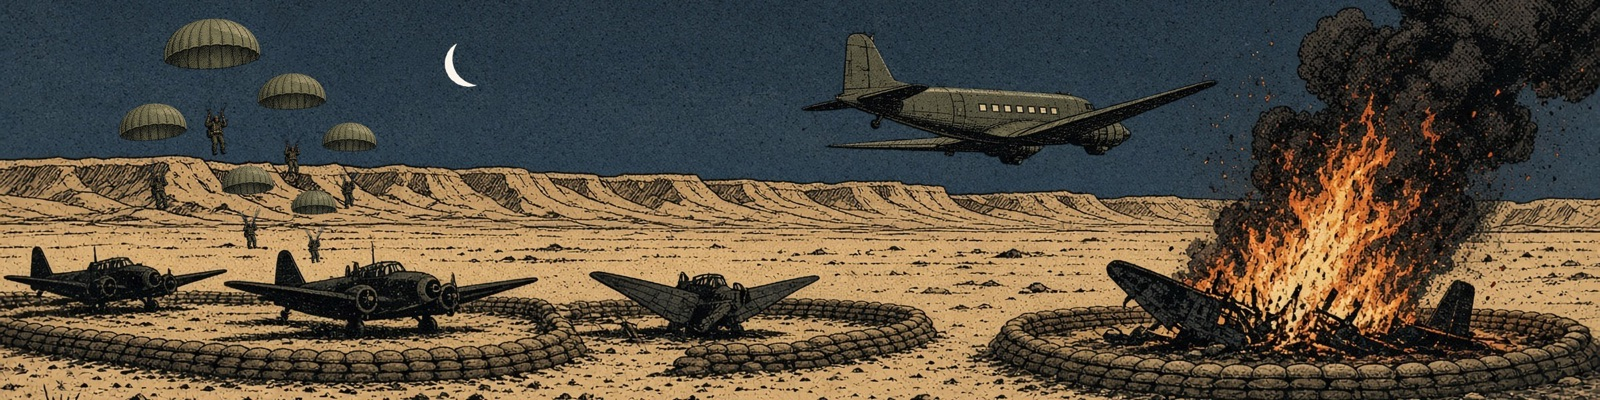
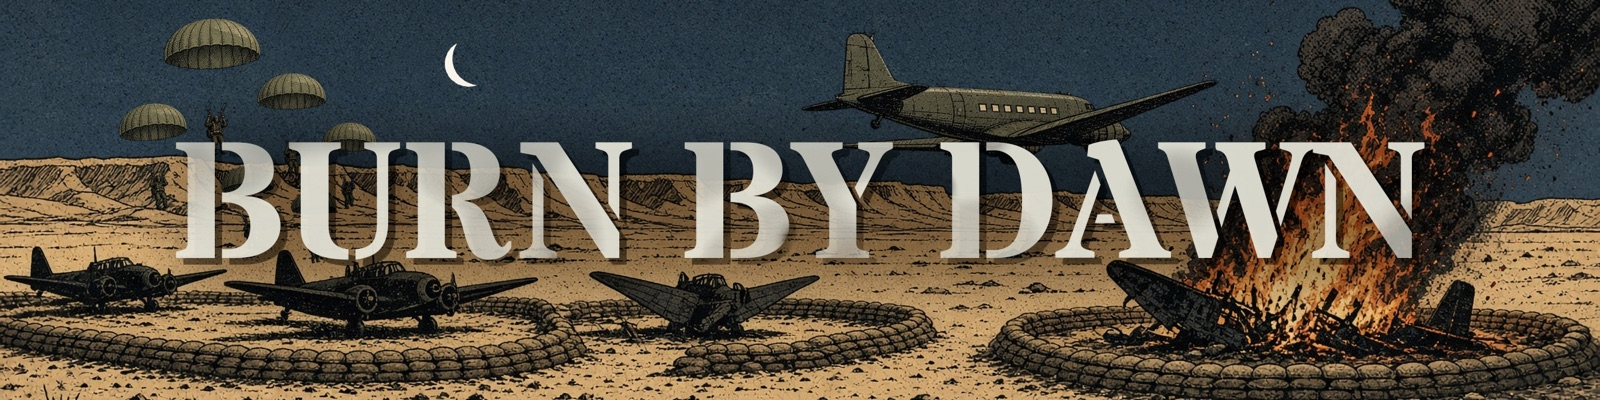
the tin of time pencils about a fifth bigger; the operator's revised title cards in (France's lighter, the airfield's with BURN BY DAWN painted in, so code no longer sets it)

Changed region(s): [[0.0938, 0.33, 0.9062, 0.75]]

diff --git a/index.html b/index.html
@@ -230,14 +230,14 @@
     #timer-tin {
       position: absolute;
       z-index: 6;
-      width: 318px;
-      padding: 6px 8px 8px;
+      width: 388px;
+      padding: 7px 10px 10px;
       background: var(--green);
       background-image: radial-gradient(circle, rgba(26, 26, 24, 0.22) 0.8px, transparent 1.2px);
       background-size: 4px 4px;
       border: 3px solid var(--ink);
-      border-radius: 9px;
-      box-shadow: 5px 5px 0 var(--ink), 0 10px 30px rgba(0, 0, 0, 0.35);
+      border-radius: 11px;
+      box-shadow: 6px 6px 0 var(--ink), 0 12px 36px rgba(0, 0, 0, 0.35);
       cursor: default;
     }
     #timer-tin[hidden] { display: none; }
@@ -245,33 +245,33 @@
       display: flex;
       justify-content: space-between;
       align-items: baseline;
-      padding: 0 3px 5px;
+      padding: 0 4px 6px;
       color: var(--paper);
       font-family: var(--slab);
       letter-spacing: 2px;
     }
-    #timer-tin .tin-make { font-size: 10px; letter-spacing: 1px; opacity: 0.85; white-space: nowrap; }
-    #timer-tin .tin-name { font-size: 16px; white-space: nowrap; }
+    #timer-tin .tin-make { font-size: 12px; letter-spacing: 1px; opacity: 0.85; white-space: nowrap; }
+    #timer-tin .tin-name { font-size: 20px; white-space: nowrap; }
     #timer-tin .tin-card {
-      padding: 5px 7px 6px;
+      padding: 6px 9px 7px;
       background-color: var(--paper);
       background-image: var(--paper-fibre);
       background-size: var(--paper-fibre-size);
       border: 2px solid var(--ink);
       border-radius: 3px;
     }
-    #timer-tin .tin-head { display: flex; justify-content: space-between; align-items: baseline; gap: 8px; font-size: 13px; border-bottom: 2px solid var(--ink); padding-bottom: 4px; margin-bottom: 4px; }
-    #timer-tin .tin-head b { font-family: var(--slab); font-size: 16px; letter-spacing: 1px; color: var(--red); }
-    #timer-tin .tin-head span { font-size: 12px; text-align: right; }
+    #timer-tin .tin-head { display: flex; justify-content: space-between; align-items: baseline; gap: 10px; font-size: 16px; border-bottom: 2px solid var(--ink); padding-bottom: 5px; margin-bottom: 5px; }
+    #timer-tin .tin-head b { font-family: var(--slab); font-size: 20px; letter-spacing: 1px; color: var(--red); }
+    #timer-tin .tin-head span { font-size: 14px; text-align: right; }
     #timer-tin .tin-rows { display: flex; flex-direction: column; }
     #timer-tin .tin-pencil {
       display: grid;
-      grid-template-columns: 116px 1fr 16px;
+      grid-template-columns: 142px 1fr 20px;
       align-items: center;
-      gap: 7px;
-      padding: 1px 4px;
+      gap: 9px;
+      padding: 2px 5px;
       font: inherit;
-      font-size: 12px;
+      font-size: 14px;
       text-align: left;
       color: var(--ink);
       background: none;
@@ -280,11 +280,11 @@
       cursor: pointer;
       transition: none;
     }
-    #timer-tin .tin-pencil-art { width: 116px; height: 16px; display: block; }
+    #timer-tin .tin-pencil-art { width: 142px; height: 20px; display: block; }
     #timer-tin .tin-words { display: flex; justify-content: space-between; gap: 6px; line-height: 1.25; }
-    #timer-tin .tin-words b { font-size: 12px; white-space: nowrap; }
+    #timer-tin .tin-words b { font-size: 15px; white-space: nowrap; }
     #timer-tin .tin-words span { text-align: right; }
-    #timer-tin .tin-key { font-weight: bold; text-align: center; border: 1.5px solid var(--ink); border-radius: 3px; font-size: 11px; line-height: 16px; }
+    #timer-tin .tin-key { font-weight: bold; text-align: center; border: 1.5px solid var(--ink); border-radius: 3px; font-size: 13px; line-height: 19px; }
     #timer-tin .tin-pencil:hover:not(:disabled) { border-color: rgba(26, 26, 24, 0.35); }
     /* Lifted out of the tin: up and to the left, off the card, ringed in the pen. */
     #timer-tin .tin-pencil.lifted { border-color: var(--red); background: rgba(193, 39, 45, 0.07); }
@@ -292,19 +292,19 @@
     #timer-tin .tin-pencil.danger .tin-words span { color: var(--red); font-weight: bold; }
     #timer-tin .tin-pencil.struck { opacity: 0.4; cursor: not-allowed; }
     #timer-tin .tin-pencil.struck .tin-words { text-decoration: line-through; }
-    #timer-tin .tin-foot { display: flex; align-items: center; gap: 8px; margin-top: 4px; padding-top: 5px; border-top: 1px dashed rgba(26, 26, 24, 0.5); }
-    #timer-tin .tin-say { flex: 1; font-size: 12px; }
-    #timer-tin .tin-back { font: inherit; font-size: 12px; color: var(--ink); background: none; border: 0; text-decoration: underline; cursor: pointer; opacity: 0.7; }
+    #timer-tin .tin-foot { display: flex; align-items: center; gap: 10px; margin-top: 5px; padding-top: 6px; border-top: 1px dashed rgba(26, 26, 24, 0.5); }
+    #timer-tin .tin-say { flex: 1; font-size: 14px; }
+    #timer-tin .tin-back { font: inherit; font-size: 14px; color: var(--ink); background: none; border: 0; text-decoration: underline; cursor: pointer; opacity: 0.7; }
     #timer-tin .tin-set {
       display: flex; flex-direction: column; align-items: center;
-      padding: 3px 14px 2px;
-      font-family: var(--slab); font-size: 20px; letter-spacing: 2px; line-height: 1;
+      padding: 4px 17px 3px;
+      font-family: var(--slab); font-size: 24px; letter-spacing: 2px; line-height: 1;
       color: var(--paper); background: var(--red);
       border: 2px solid var(--ink); border-radius: 4px;
       box-shadow: 3px 3px 0 var(--ink);
       cursor: pointer;
     }
-    #timer-tin .tin-set small { font-family: var(--typewriter, inherit); font-size: 10px; letter-spacing: 0; opacity: 0.85; }
+    #timer-tin .tin-set small { font-family: var(--typewriter, inherit); font-size: 12px; letter-spacing: 0; opacity: 0.85; }
     #timer-tin .tin-set:active { transform: translate(2px, 2px); box-shadow: 1px 1px 0 var(--ink); }
     #timer-tin .tin-set:disabled { opacity: 0.4; cursor: not-allowed; }
     #board-paper {

diff --git a/DECISIONS.md b/DECISIONS.md
@@ -741,3 +741,5 @@ Format: `YYYY-MM-DD | M<n> | decision — reason`
 2026-10-01 | m31d | The timer as a tin of time pencils (the operator's pick of two looks): the No. 10 delay switch, a sprite a length (`time-pencil-N`, coloured black, red, white, green, yellow, blue shortest to longest as the real safety strips were; yellow in desert ochre, the copper tube in a fire-orange halftone), in an olive tin (page styling) laid in the map's corner away from the man. Pick then SET, the operator's flow: a click or a number lifts a pencil, SET, Enter or C sets it. Before, a number set the charge at once; now it takes Enter after (one key more, for one flow for mouse and keys). The action strip keeps only SET and Back under SET THE TIMER: PICK A PENCIL, THEN SET; the pen cue on the map says PICK A PENCIL. `pencilLifted` is UI state in main.js, as `pencilsFor`
 2026-10-01 | m31d | Walked into taken out again, the operator's call after the numbers and a play, and Claude's view too: it cost 10–25 points where it bit, mostly men waiting in cover on a patrol's lane, and it made hunting the best play on France's North run (the pillar check failed by 30 points). Getting the targets back would have meant a balance pass for one rule. enemy.js, rules.json, the bot and the tests are as they were before it; with it gone the bot gives the baselines exactly (France Normal 86/83/89, airfield Hard 41/29/37). Its lines above stay as the record
 2026-10-01 | m31d | The tin beside the man, not in a corner (the operator's): eight places round him (each side, above, below, the diagonals), a hex radius and a bit clear of his counter, kept inside the map; it takes the one covering the fewest hexes of the charge's blast and his own, then the nearest. Measured with the board's screen matrix, divided by the spread's zoom. M31b's SET THE TIMER / PICK A PENCIL pen lettering beside him is removed: the tin now stands where it stood and says the same
+2026-10-01 | m31d | The tin of time pencils about 22% bigger (the operator's: 20–25%): 388 wide (was 318), pencils 142 (was 116), type 14–15 (was 12), SET 24 (was 20); the box comes out 414 x 322 against 340 x 268, and placeTin still finds it room clear of the blast (the bowser's: above and left of the man)
+2026-10-01 | m31d | The operator's revised title cards: France's lighter, to sit with the airfield's; the airfield's now with BURN BY DAWN painted in, so its `titleCardLettered: false` is gone (true by default). The loaded 1600 x 400 copies remade from the _full paintings with sips (France at quality 90 as its README says, 203 KB; the airfield at 80 as in M31c, 297 KB). The PSD sources the operator left in assets/Source (40 MB) are not committed: the site would serve them to no purpose

diff --git a/ART-ASSETS.md b/ART-ASSETS.md
@@ -210,7 +210,7 @@ Small, and they sit on top of counters, so they must read against a busy backgro
 | `effect-spark.svg` | 100 x 100 (M16: a spark where a cut telephone wire parts, a small paper starburst. *Drawn by code.*) |
 | `marker-blast.svg` | 200 x 200 (comic starburst, one frame, code does the stepped reveal; red burst, a `.fire` fireball inside it and a paper core since M14). **Or a painted PNG**, `/assets/markers/marker-blast.png`, square on transparency, shown from a 400 x 400 copy (M17, the operator's; the full painting is `marker-blast_original.png`, not loaded). It replaces the drawn one on load, the muzzle flash too, and code sets BOOM! over its middle, in the comic lettering since M21 |
 | `stamp-destroyed.svg` | 250 x 80 (red rubber stamp, rotated in code; wider since M13 so the word is not squeezed; M31d: a map may move one aside, `stampNudge`, where two blown targets stand side by side) |
-| `time-pencil-N.svg` | 200 x 26 (M31d: a No. 10 delay switch lying on its side, N 1 to 6 the turns it runs: crimped copper tube, the safety strip in its length's colour, black, red, white, green, yellow, blue, shortest to longest, as the real ones were; the brass striker body with its inspection hole. Shown in the tin of time pencils when a charge's timer is set, 116 wide. *Drawn by code.*) |
+| `time-pencil-N.svg` | 200 x 26 (M31d: a No. 10 delay switch lying on its side, N 1 to 6 the turns it runs: crimped copper tube, the safety strip in its length's colour, black, red, white, green, yellow, blue, shortest to longest, as the real ones were; the brass striker body with its inspection hole. Shown in the tin of time pencils when a charge's timer is set, 142 wide. *Drawn by code.*) |
 | `marker-charge-point.svg` | 28 x 28 (a charge point, SPEC.md §7, §11: where a man stands to place a charge — an empty satchel with a red plus; must read as "put one here", never as a target. Drawn a third of the way toward the target it serves, M12) |
 | `marker-telegraph-pole.svg` | 28 x 28 (a telegraph pole with its crossarm, ink only, on each of the telephone exchange's charge points; code runs one long sagging wire from its crossarm to the exchange's roof standard, M12; M14) |
 | `counter-shadow.svg` | 56 x 56 (the soft shadow under every counter, down-right; no filters, so build the softness from stacked faint shapes) |

diff --git a/SPEC.md b/SPEC.md
@@ -1410,8 +1410,8 @@ Placeholder copy for the operator to reword; all of it data in `missions.json` a
   higher (`exfilArtNudge`), clear of the board's foot.
 - **The strip** has its two edges drawn as thick ink lines the length of it, with the
   painted centre line between, so it reads as a runway (M31b, the operator's).
-- **Its title card** is `assets/title/title-card-airfield.jpg` (ART-PROMPTS Priority 13);
-  France's shows until it is there. The tagline stays SIX MEN · EIGHT AIRCRAFT · DAWN AT
+- **Its title card** is `assets/title/title-card-airfield.jpg` (ART-PROMPTS Priority 13),
+  with BURN BY DAWN painted in since M31d. The tagline stays SIX MEN · EIGHT AIRCRAFT · DAWN AT
   TWENTY.
 - The paintings and recordings it wants are in ART-PROMPTS.md (Priorities 13, 15, 16);
   every one has a drawn or made stand-in, so none holds up `playable`.

diff --git a/ART-PROMPTS.md b/ART-PROMPTS.md
@@ -409,7 +409,7 @@ he gets a new one.
 
 ## Priority 13 — the airfield's title card ✅ done (2026-09-30)
 
-Supplied without the title painted in, so code sets BURN BY DAWN over it (`titleCardLettered: false`).
+Supplied without the title painted in at first (`titleCardLettered: false`); since M31d (2026-10-01) the operator's revision has BURN BY DAWN painted in, so the code sets nothing over it.
 
 Its own painting in place of France's, across the top of its orders and its back page.
 Wired in M31: drop the file in and reload; until then the airfield shows France's card.
